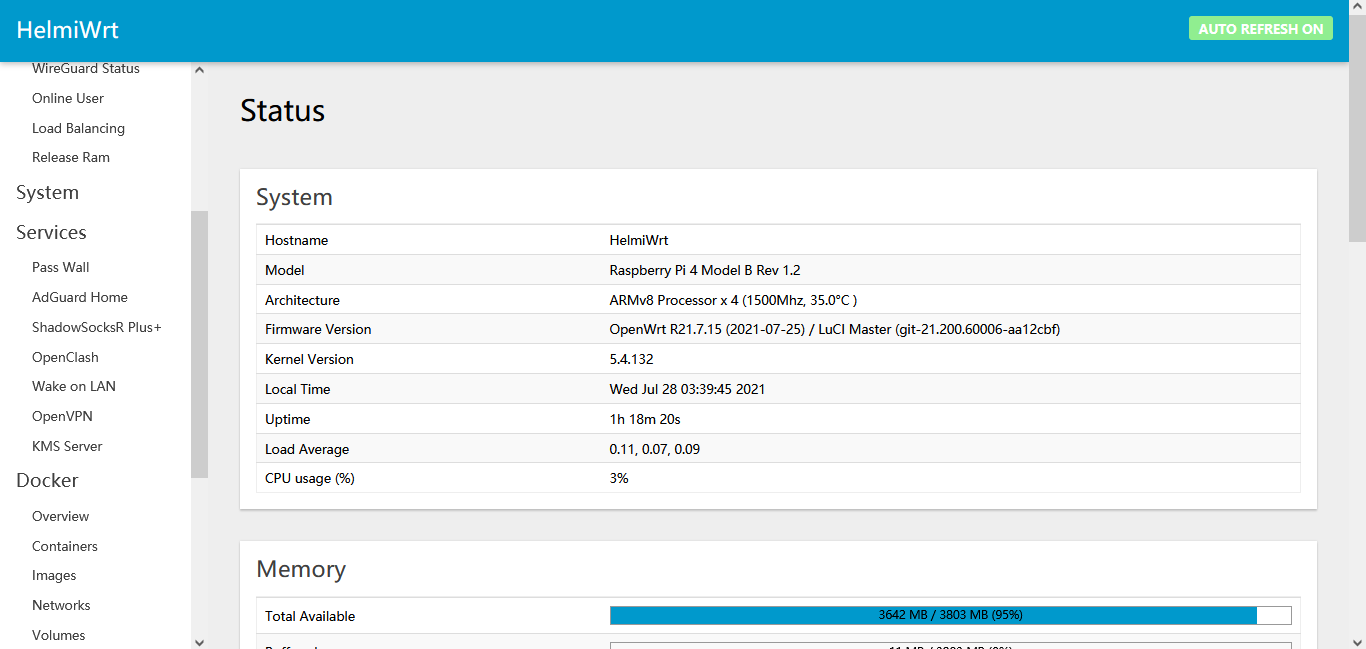
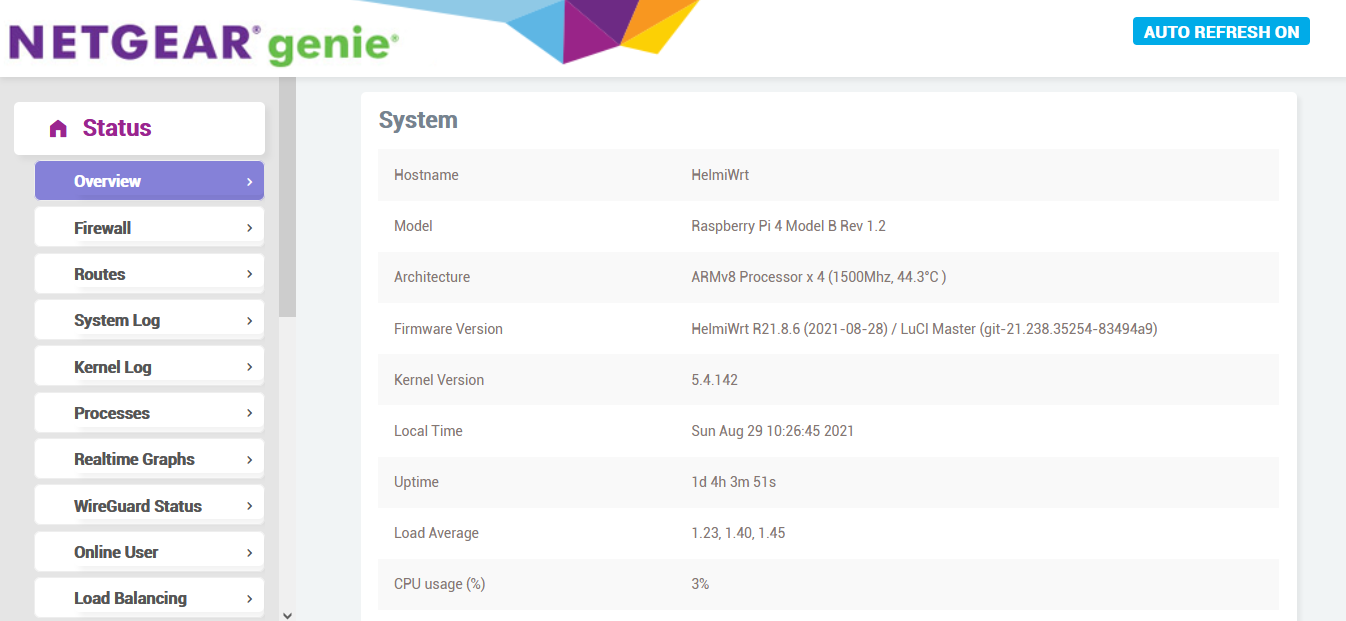
change helmiwrt-packages projects image previews

diff --git a/_projects/(092) HelmiWrt Packages for OpenWrt.md b/_projects/(092) HelmiWrt Packages for OpenWrt.md
@@ -1,7 +1,7 @@
 ---
 name:  HelmiWrt LuCI App Packages for OpenWrt
 tools: [Package, LuCI, App, OpenWrt]
-image: https://user-images.githubusercontent.com/20932301/129487262-21097eaa-dda2-4de2-8788-938e440f41fe.png
+image: https://raw.githubusercontent.com/helmiau/helmiau.github.io/master/images/helmiwrt-packages.png
 description: HelmiWrt packages is my LuCI app repository which contains additional LuCI packages for OpenWrt.
 external_url: https://helmiau.github.io/blog/helmiwrt-packages
 ---
